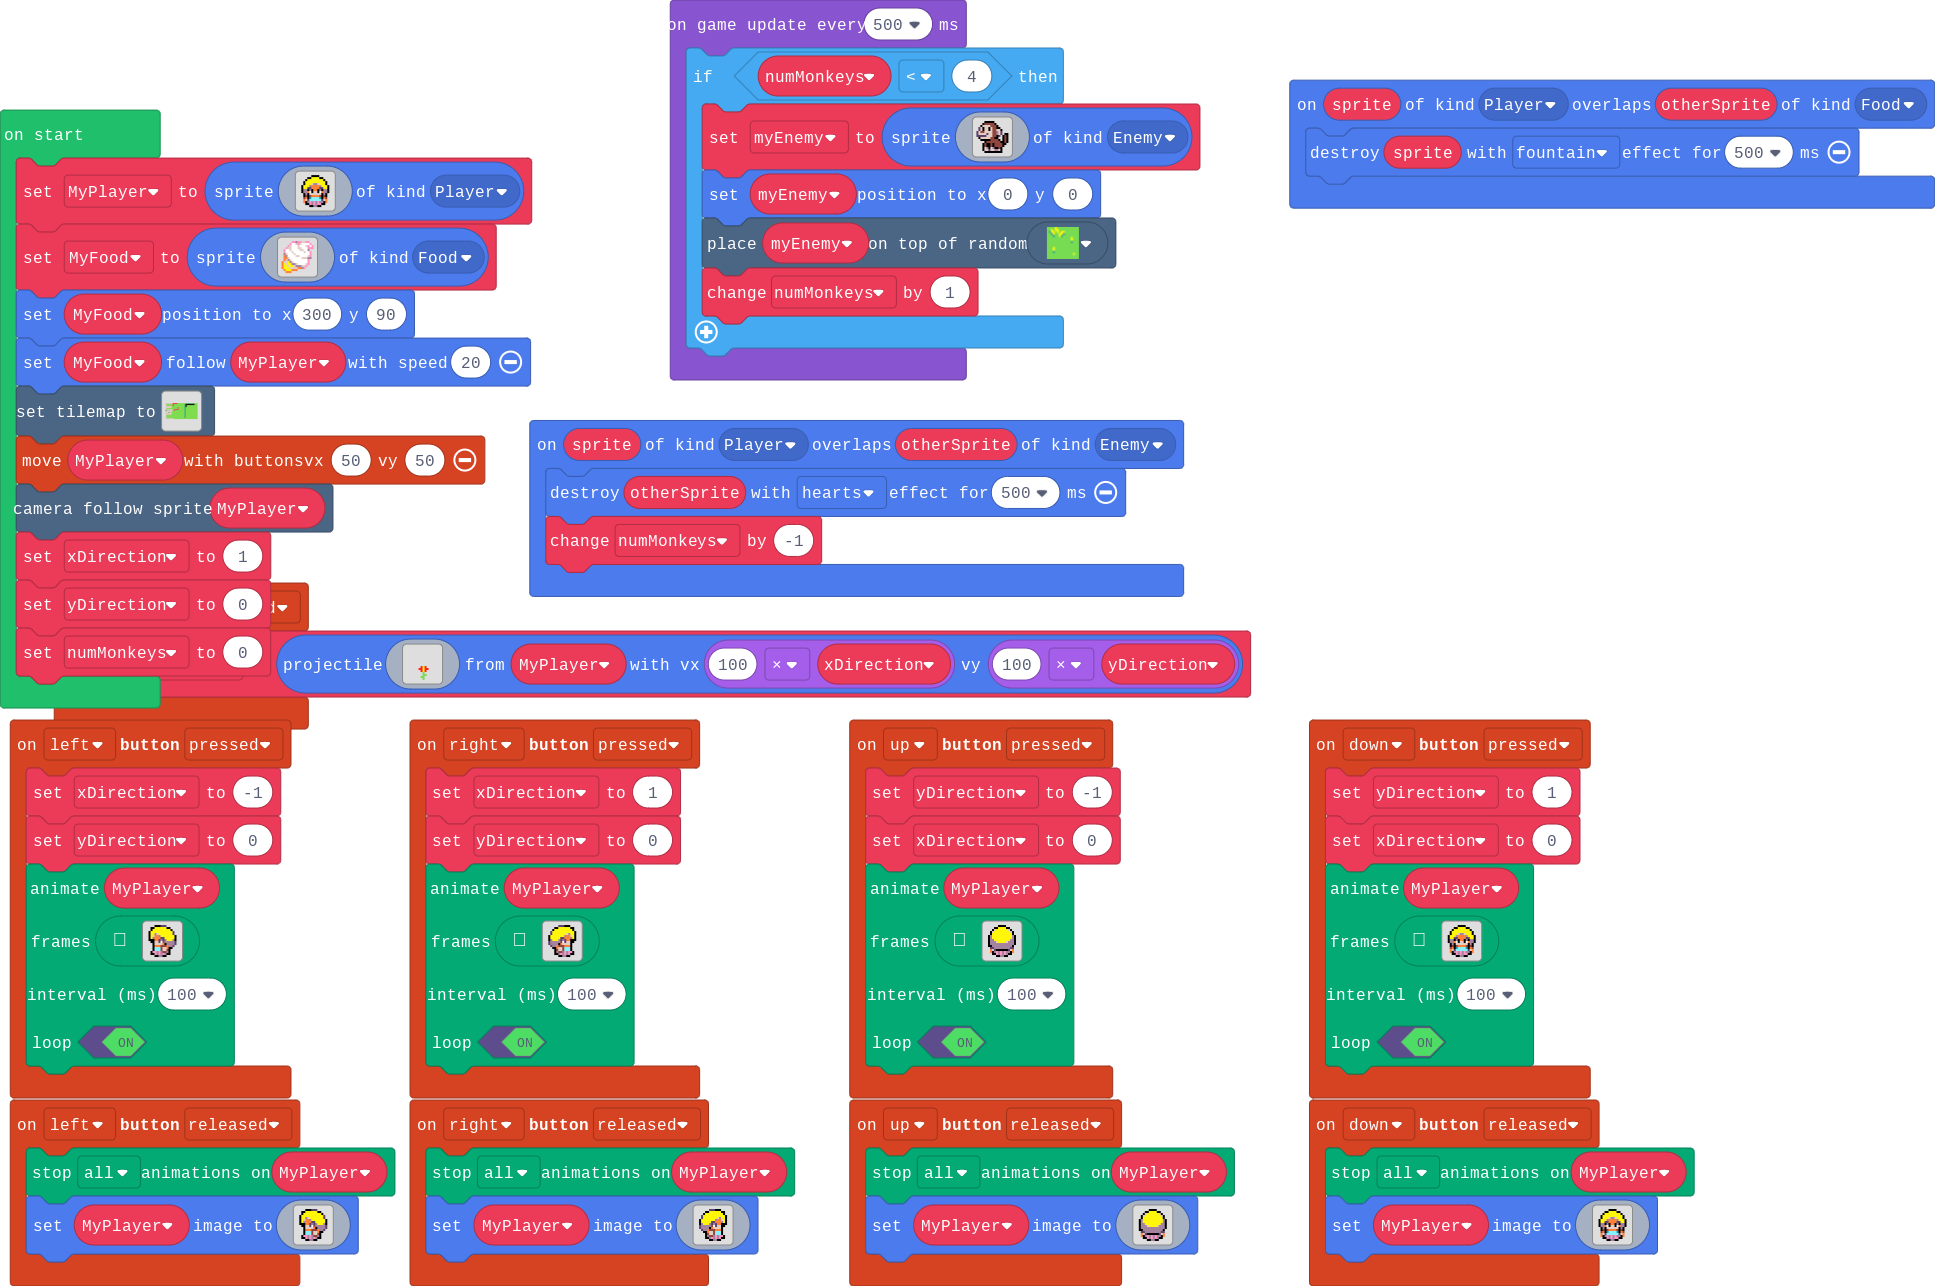
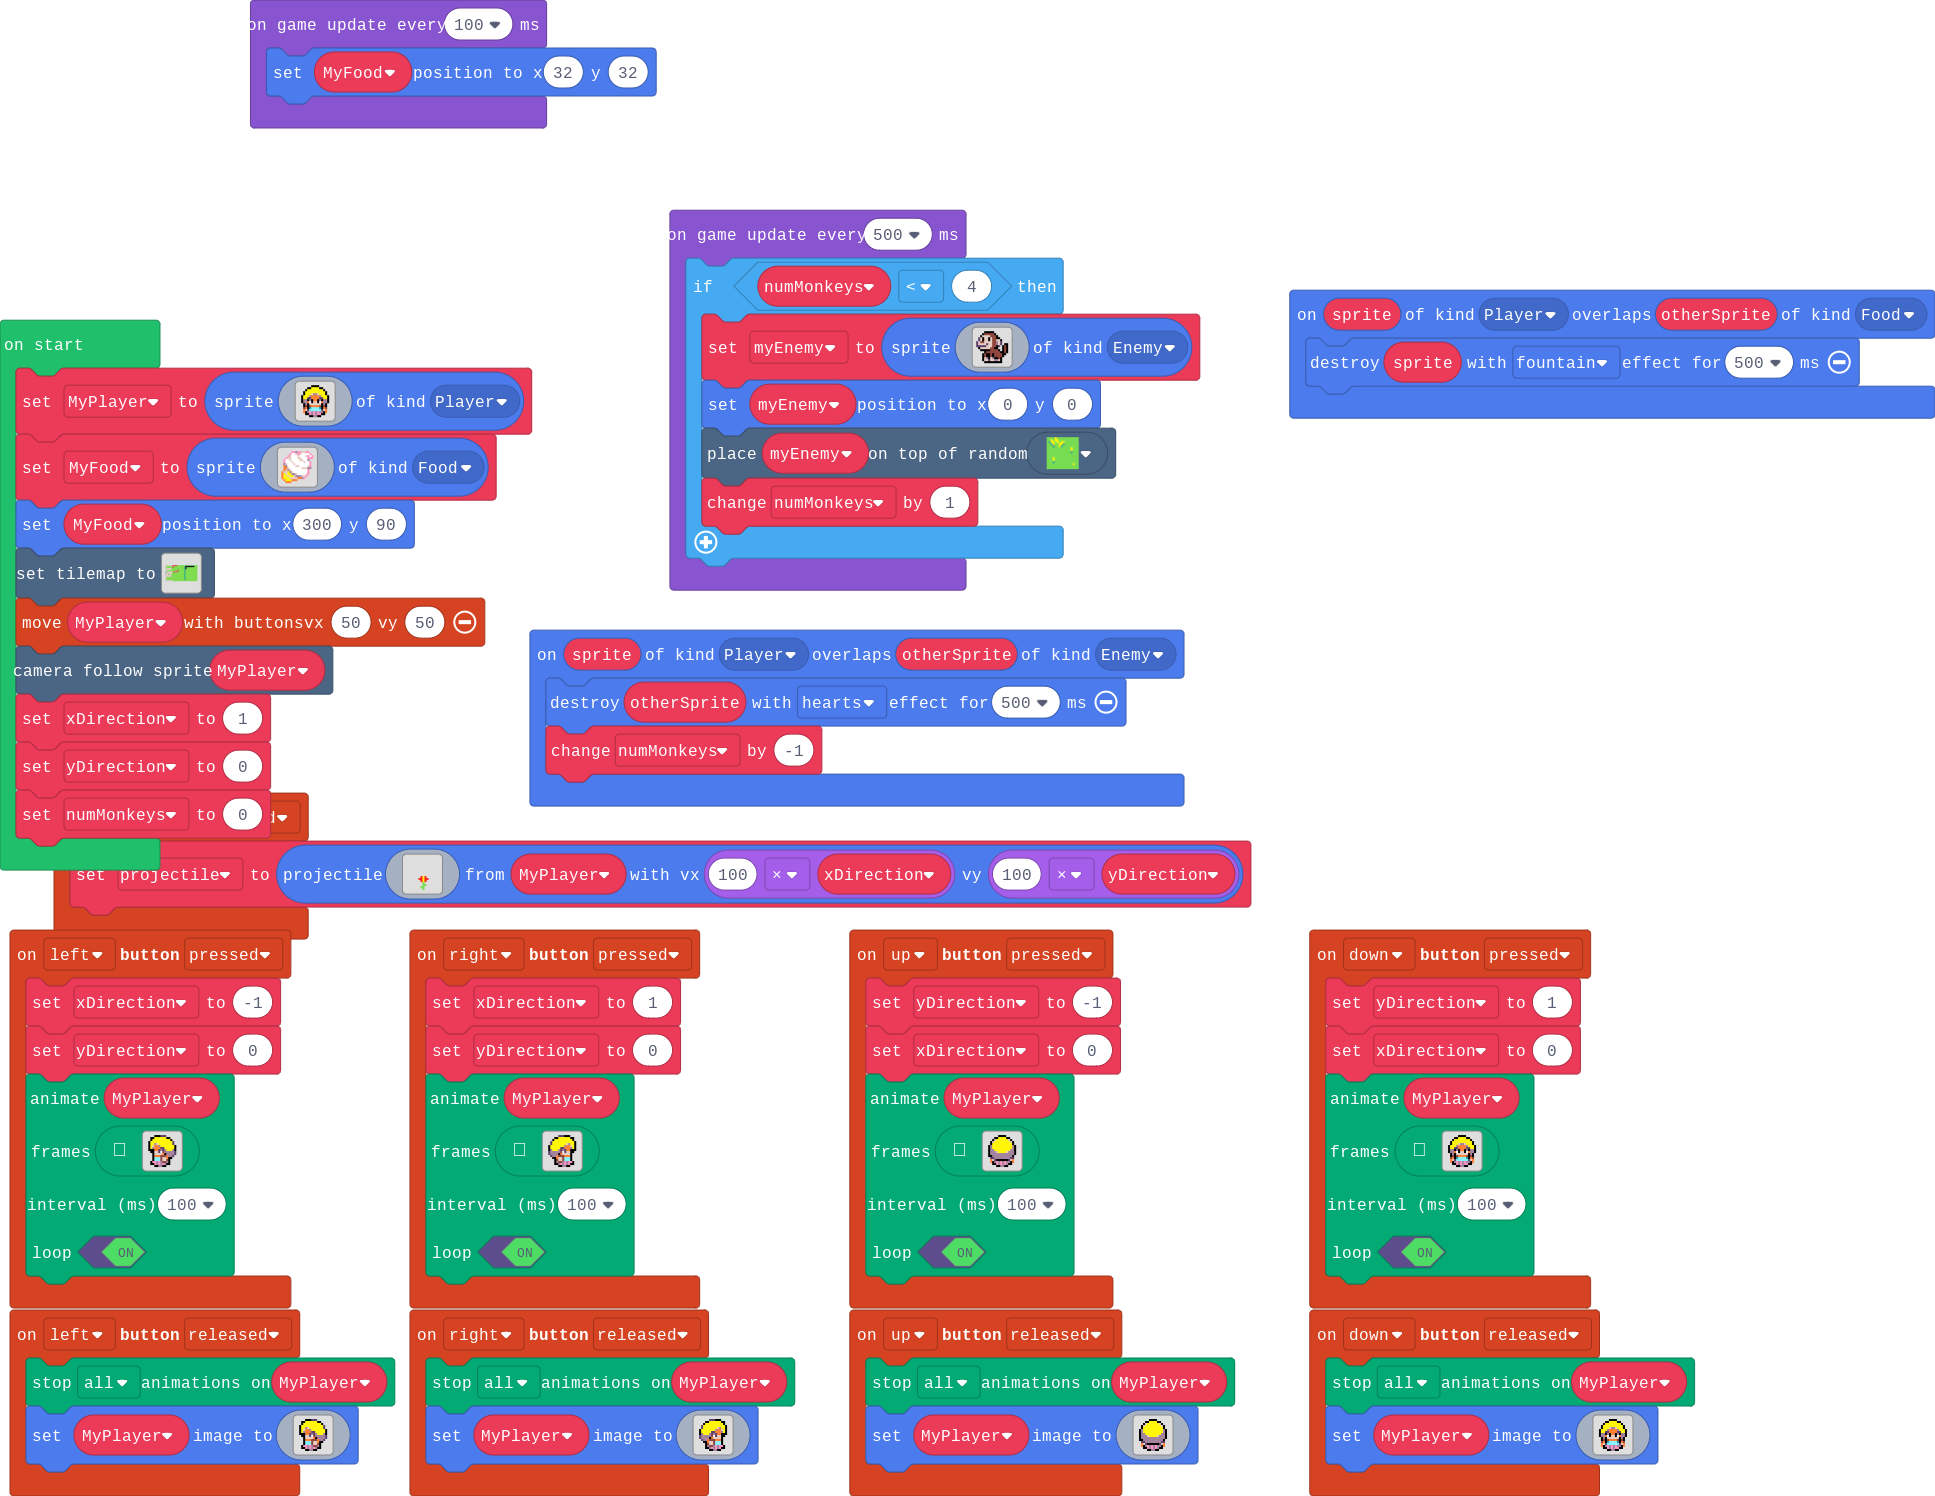
trying to make a follower

diff --git a/main.ts b/main.ts
@@ -591,7 +591,6 @@ let MyFood = sprites.create(img`
 . . 4 4 4 . . . . . . . . . . . 
 `, SpriteKind.Food)
 MyFood.setPosition(300, 90)
-MyFood.follow(MyPlayer, 20)
 tiles.setTilemap(tiles.createTilemap(
[1 lines of base64/hex data omitted]
             img`
@@ -620,6 +619,9 @@ scene.cameraFollowSprite(MyPlayer)
 xDirection = 1
 yDirection = 0
 let numMonkeys = 0
+game.onUpdateInterval(100, function () {
+    MyFood.setPosition(32, 32)
+})
 game.onUpdateInterval(500, function () {
     if (numMonkeys < 4) {
         myEnemy = sprites.create(img`
